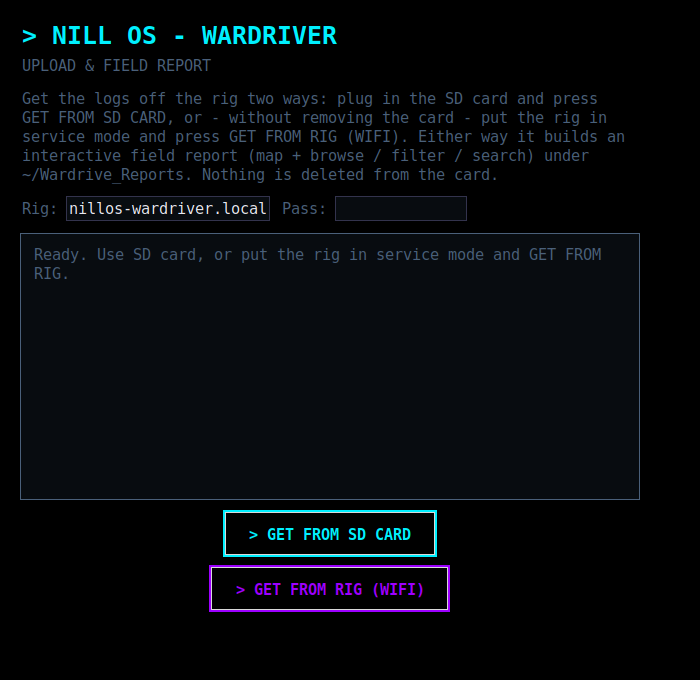
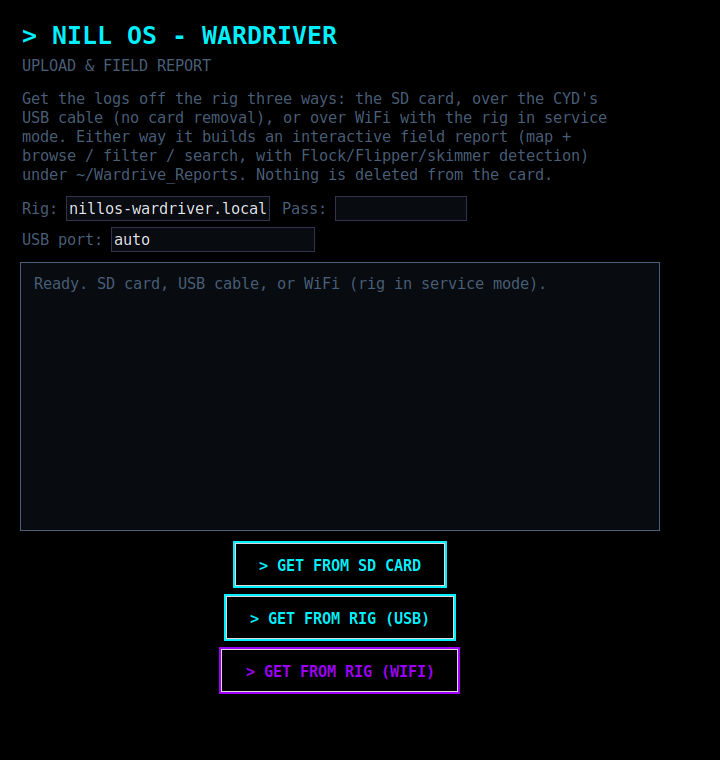
Desktop tool: read the SD over the CYD's USB serial (third source)
Adds "GET FROM RIG (USB)" alongside SD card and WiFi: with the CYD plugged
in over USB, it auto-finds the port, pulls every session CSV over serial
(sd list / sd get) and builds the same field report - no card removal, no
WiFi. Opens with pyserial defaults (forcing DTR/RTS low pulses this board's
reset line) and rides out any adapter bounce. pyserial added to requirements;
verified end to end reading real files off the rig.

Changed region(s): [[0.03, 0.0309, 0.93, 0.7103], [0.3, 0.7103, 0.66, 0.9265]]

diff --git a/firmware/tools/organize_wardrive.py b/firmware/tools/organize_wardrive.py
@@ -33,6 +33,7 @@ import shutil
 import string
 import sys
 import tempfile
+import time
 import urllib.error
 import urllib.parse
 import urllib.request
@@ -116,6 +117,106 @@ def download_from_rig(host, password, dest, progress=lambda s: None):
         with open(os.path.join(dest, safe), "wb") as f:
             f.write(data)
     return len(names)
+
+
+# ---------- read over the CYD's USB serial (no SD-card removal, no WiFi) ----------
+def _serial_ports():
+    import glob as _g
+    if os.name == "nt":
+        return [f"COM{i}" for i in range(1, 33)]
+    return sorted(_g.glob("/dev/ttyUSB*") + _g.glob("/dev/ttyACM*")
+                  + _g.glob("/dev/tty.usbserial*") + _g.glob("/dev/cu.usb*"))
+
+
+def _import_serial():
+    try:
+        import serial  # pyserial
+        return serial
+    except ImportError:
+        raise ValueError("pyserial isn't installed.\nIn the tool's venv:  pip install pyserial")
+
+
+def _open_cyd(serial, port):
+    """Open a CYD serial port. On this board forcing DTR/RTS low pulses the
+    auto-reset line, so we open with pyserial's defaults (which don't reset it)
+    and just give it a moment in case a particular adapter does bounce."""
+    s = serial.Serial(port, 115200, timeout=2)
+    time.sleep(2.0)          # ride out any adapter-specific reset before talking
+    s.reset_input_buffer()
+    return s
+
+
+def _probe_is_cyd(serial, port):
+    try:
+        s = _open_cyd(serial, port)
+    except Exception:
+        return False
+    try:
+        s.reset_input_buffer()
+        s.write(b"sd list\n"); s.flush()
+        end = time.time() + 3
+        while time.time() < end:
+            line = s.readline().decode("utf-8", "replace")
+            if line.startswith("SDLIST") or line.strip() == "SDLISTEND":
+                return True
+        return False
+    except Exception:
+        return False
+    finally:
+        s.close()
+
+
+def read_from_cyd_serial(port, dest, progress=lambda s: None):
+    """Pull every session CSV off the rig over the CYD's USB serial cable - no
+    WiFi, no SD-card removal. `port` may be a device path or 'auto'."""
+    serial = _import_serial()
+    if not port or port.strip().lower() == "auto":
+        progress("Looking for the rig on a serial port...")
+        found = next((p for p in _serial_ports() if _probe_is_cyd(serial, p)), None)
+        if not found:
+            raise ValueError("Couldn't find the rig on any serial port.\n"
+                             "Plug the CYD in over USB and try again (or type its port).")
+        port = found
+    progress(f"Opening {port}...")
+    try:
+        s = _open_cyd(serial, port)
+    except Exception as e:
+        raise ValueError(f"Couldn't open {port}: {e}")
+    try:
+        s.reset_input_buffer()
+        s.write(b"sd list\n"); s.flush()
+        names, end = [], time.time() + 8
+        while time.time() < end:
+            line = s.readline().decode("utf-8", "replace").strip()
+            if line.startswith("SDLIST name="):
+                names.append(line.split("name=", 1)[1].split(" size=")[0])
+            elif line == "SDLISTEND":
+                break
+        if not names:
+            raise ValueError("Connected, but the card has no session CSVs.")
+        os.makedirs(dest, exist_ok=True)
+        for i, nm in enumerate(names, 1):
+            progress(f"Reading {nm} ({i}/{len(names)})...")
+            s.reset_input_buffer()
+            s.write(("sd get " + nm + "\n").encode()); s.flush()
+            rows, started, end = [], False, time.time() + 45
+            while time.time() < end:
+                line = s.readline().decode("utf-8", "replace").rstrip("\r\n")
+                if not line:
+                    continue
+                if line.startswith("SDBEGIN "):
+                    started = True
+                elif line.startswith("SDEND"):
+                    break
+                elif line.startswith("SDERR"):
+                    raise ValueError("Rig error reading " + nm + ": " + line)
+                elif started and line.startswith("SDROW "):
+                    rows.append(line[6:])
+            with open(os.path.join(dest, os.path.basename(nm)), "w", encoding="utf-8", newline="\n") as f:
+                f.write("\n".join(rows) + ("\n" if rows else ""))
+        return len(names)
+    finally:
+        s.close()
 
 
 # ---------- CSV load + dedup ----------
@@ -516,7 +617,7 @@ def _tactical_button(parent, text, command, font, accent=CYAN):
 def main():
     root = tk.Tk()
     root.title("Nill OS - Wardriver")
-    root.geometry("660x620")
+    root.geometry("680x700")
     root.configure(bg=BG)
     root.resizable(False, False)
 
@@ -526,11 +627,11 @@ def main():
 
     tk.Label(root, text="> NILL OS - WARDRIVER", font=title_f, bg=BG, fg=CYAN, anchor="w").pack(fill="x", padx=20, pady=(18, 2))
     tk.Label(root, text="UPLOAD & FIELD REPORT", font=mono, bg=BG, fg=DIM, anchor="w").pack(fill="x", padx=20, pady=(0, 10))
-    tk.Label(root, text="Get the logs off the rig two ways: plug in the SD card and press\n"
-                        "GET FROM SD CARD, or - without removing the card - put the rig in\n"
-                        "service mode and press GET FROM RIG (WIFI). Either way it builds an\n"
-                        "interactive field report (map + browse / filter / search) under\n"
-                        "~/Wardrive_Reports. Nothing is deleted from the card.",
+    tk.Label(root, text="Get the logs off the rig three ways: the SD card, over the CYD's\n"
+                        "USB cable (no card removal), or over WiFi with the rig in service\n"
+                        "mode. Either way it builds an interactive field report (map +\n"
+                        "browse / filter / search, with Flock/Flipper/skimmer detection)\n"
+                        "under ~/Wardrive_Reports. Nothing is deleted from the card.",
              font=mono, bg=BG, fg=DIM, justify="left", anchor="w").pack(fill="x", padx=20, pady=(0, 10))
 
     # rig address + service password (for GET FROM RIG)
@@ -543,8 +644,13 @@ def main():
     pass_var = tk.StringVar()
     tk.Entry(row, textvariable=pass_var, font=mono, bg=PANEL, fg="#E8E8F0", insertbackground=CYAN, show="*",
              relief="flat", highlightbackground="#33334d", highlightthickness=1, width=14).pack(side="left", padx=(6, 0))
+    row2 = tk.Frame(root, bg=BG); row2.pack(fill="x", padx=20, pady=(0, 4))
+    tk.Label(row2, text="USB port:", font=mono, bg=BG, fg=DIM).pack(side="left")
+    port_var = tk.StringVar(value="auto")
+    tk.Entry(row2, textvariable=port_var, font=mono, bg=PANEL, fg="#E8E8F0", insertbackground=CYAN,
+             relief="flat", highlightbackground="#33334d", highlightthickness=1, width=22).pack(side="left", padx=(6, 0))
 
-    status = tk.Text(root, height=8, font=mono, bg=PANEL, fg=CYAN, insertbackground=CYAN,
+    status = tk.Text(root, height=7, font=mono, bg=PANEL, fg=CYAN, insertbackground=CYAN,
                      relief="flat", wrap="word", highlightbackground=DIM, highlightthickness=1, padx=12, pady=10)
     status.pack(fill="both", expand=True, padx=20, pady=(6, 10))
     status.tag_config("dim", foreground=DIM); status.tag_config("ok", foreground=GREEN)
@@ -584,7 +690,7 @@ def main():
         folder_border.pack(pady=(0, 14))
 
     def _busy(on):
-        for b in (sd_btn, wifi_btn):
+        for b in (sd_btn, wifi_btn, usb_btn):
             b.configure(state="disabled" if on else "normal")
 
     def do_sd():
@@ -611,16 +717,29 @@ def main():
             log("ERROR: " + str(e), "err"); _busy(False); return
         _process(tmp); _busy(False)
 
+    def do_usb():
+        _busy(True); report_border.pack_forget(); folder_border.pack_forget(); clear()
+        tmp = os.path.join(tempfile.gettempdir(), "nillos_rig_usb")
+        shutil.rmtree(tmp, ignore_errors=True)
+        try:
+            n = read_from_cyd_serial(port_var.get(), tmp, progress=lambda s: log("  " + s, "dim"))
+            log(f"  read {n} file(s) from the rig over USB", "dim")
+        except Exception as e:
+            log("ERROR: " + str(e), "err"); _busy(False); return
+        _process(tmp); _busy(False)
+
     sd_border, sd_btn = _tactical_button(root, "> GET FROM SD CARD", do_sd, mono_b)
-    sd_border.pack(pady=(0, 8))
+    sd_border.pack(pady=(0, 6))
+    usb_border, usb_btn = _tactical_button(root, "> GET FROM RIG (USB)", do_usb, mono_b)
+    usb_border.pack(pady=(0, 6))
     wifi_border, wifi_btn = _tactical_button(root, "> GET FROM RIG (WIFI)", do_wifi, mono_b, accent=PURPLE)
-    wifi_border.pack(pady=(0, 8))
+    wifi_border.pack(pady=(0, 6))
     report_border, _rb = _tactical_button(root, "> VIEW FIELD REPORT",
                                           lambda: state["report"] and open_path(state["report"]), mono_b)
     folder_border, _fb = _tactical_button(root, "> OPEN FOLDER",
                                           lambda: state["out"] and open_path(state["out"]), mono_b, accent=PURPLE)
 
-    log("Ready. Use SD card, or put the rig in service mode and GET FROM RIG.", "dim")
+    log("Ready. SD card, USB cable, or WiFi (rig in service mode).", "dim")
     root.mainloop()
 
 
